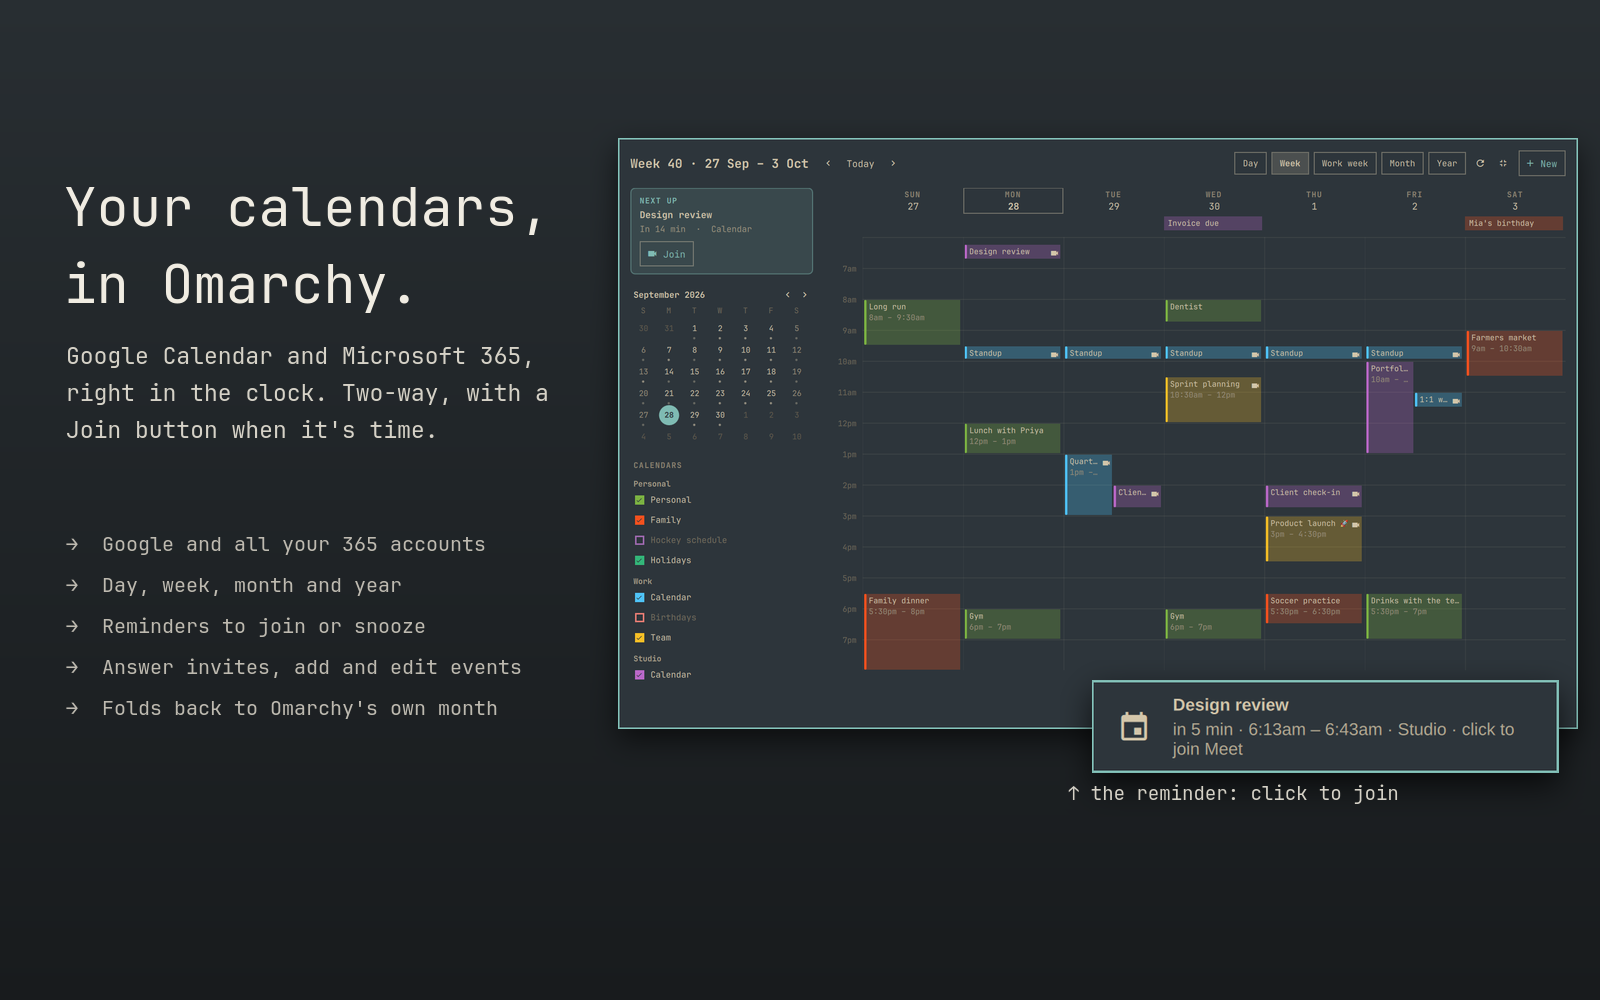
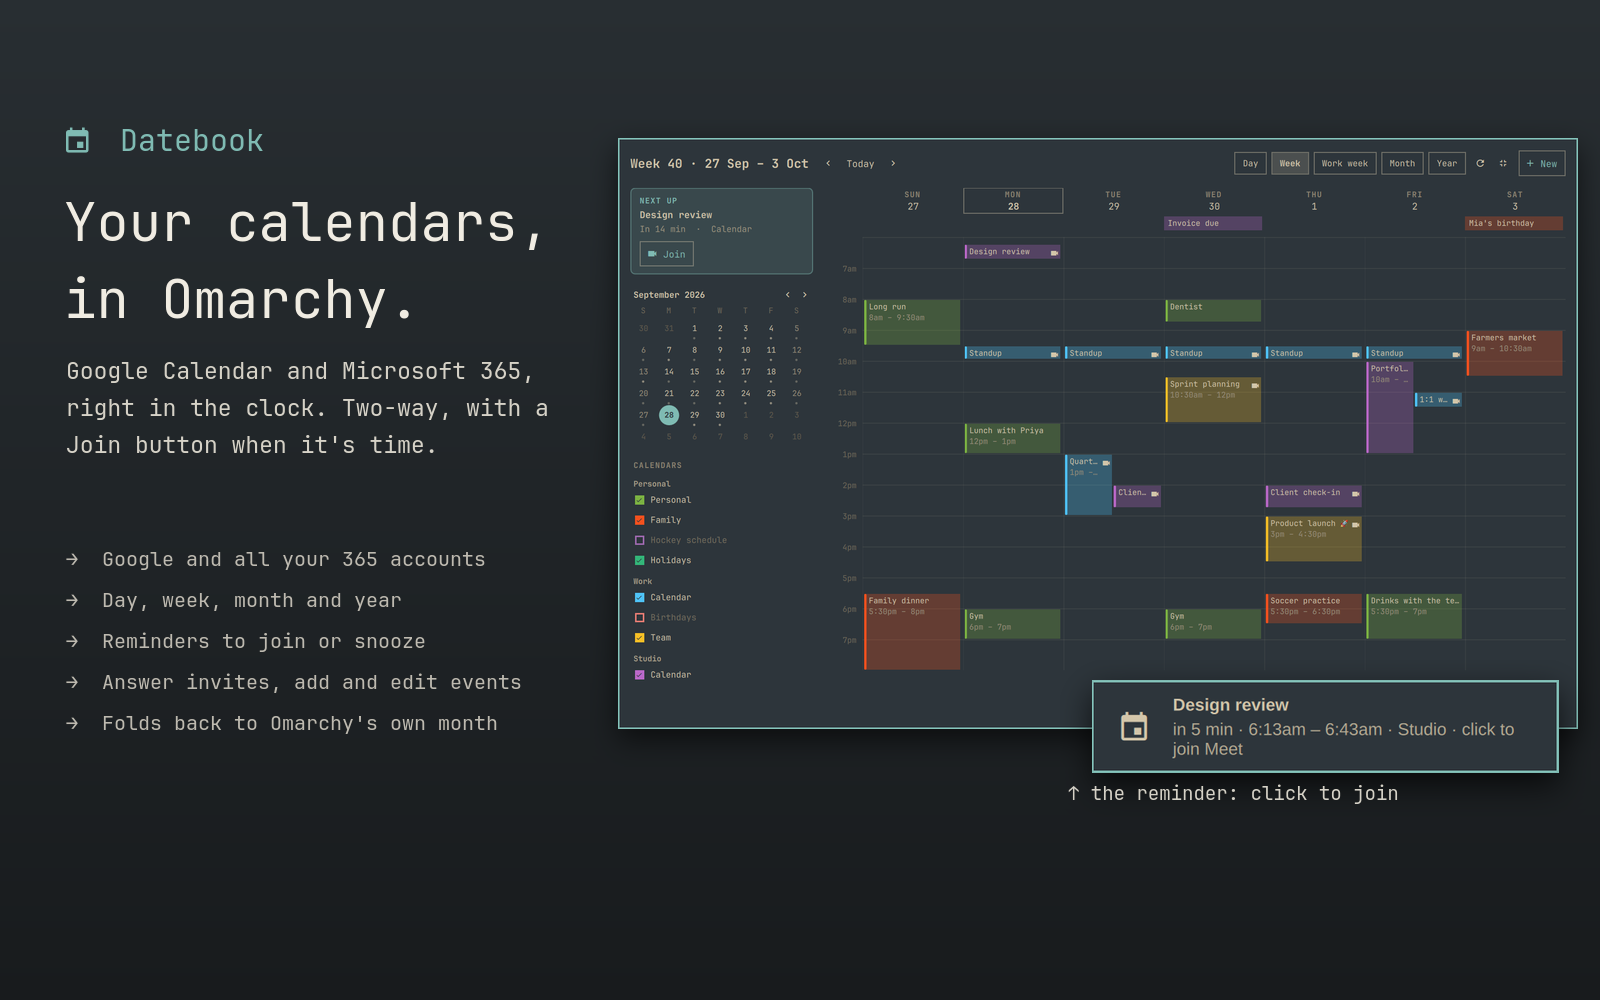
Datebook: the name, and fixes from a review
- The listing name is Datebook (the id stays blacksheep.calendar, so
  existing settings carry over); notifications come from "Datebook".
- .gitignore names client_secret*.json, token, account and cache files,
  so a downloaded Google client file dropped in here can't be committed.
- PRIVACY.md said removing the plugin removes its cache. It doesn't, and
  it leaves the keyring entries too: it now says to run calendar-ctl
  remove for each account first, and which folders are left behind.
- The README's centre-anchor command wrote a fixed /tmp/shell.json; it
  now uses mktemp beside shell.json.
- The preview carries the name.

Changed region(s): [[0.0312, 0.186, 0.3438, 0.465], [0.0625, 0.527, 0.3438, 0.744], [0.0312, 0.124, 0.1562, 0.155]]

diff --git a/Panel.qml b/Panel.qml
@@ -238,7 +238,7 @@ Panel {
         root.editorError = msg
         return
       }
-      failProc.command = ["omarchy-notification-send", "-g", "", "-u", "normal", "--app-name", "Calendar",
+      failProc.command = ["omarchy-notification-send", "-g", "", "-u", "normal", "--app-name", "Datebook",
                           "Calendar: not saved", msg]
       failProc.running = true
     }
@@ -404,7 +404,7 @@ Panel {
     var cal = root.eventIndex.calendars[e.account + "/" + e.calendar] || {}
     var text = Model.reminderText(r, cal.name || e.account, root.use24h)
     var url = e.join ? e.join.url : e.webLink
-    var args = ["notify-send", "--app-name=Calendar", "--urgency=normal",
+    var args = ["notify-send", "--app-name=Datebook", "--urgency=normal",
                 "--hint=string:omarchy-glyph:",
                 "--action=snooze=Snooze " + root.snoozeMinutes + " min"]
     if (/^https:\/\//.test(String(url || "")))

diff --git a/PRIVACY.md b/PRIVACY.md
@@ -1,8 +1,8 @@
-# Privacy policy: Omarchy Calendar
+# Privacy policy: Datebook
 
 *Last updated: 27 September 2026*
 
-Omarchy Calendar is a desktop calendar for the Omarchy Linux desktop. It shows
+Datebook (Omarchy Calendar) is a desktop calendar for the Omarchy Linux desktop. It shows
 your Google Calendar and Microsoft 365 events in the desktop's calendar, sends
 meeting reminders, and lets you create, edit, delete and respond to events.
 It is open source: everything it does is in this repository.
@@ -23,7 +23,7 @@ anything else.
 
 ## Where your data goes
 
-Nowhere but your own computer. Omarchy Calendar has no server, and no one
+Nowhere but your own computer. Datebook has no server, and no one
 operates a service behind it: it runs entirely on your machine and talks
 directly to Google's and Microsoft's calendar APIs.
 
@@ -41,15 +41,19 @@ to anyone, and never used for advertising, analytics or training.
 ## Removing your data
 
 - `calendar-ctl remove <account>` deletes that account's settings and its
-  keyring entry.
-- Uninstalling the plugin removes its cache.
+  keyring entry. Do this for each account **before** removing the plugin:
+  removing the plugin alone leaves the keyring entries in place.
+- Removing the plugin doesn't delete its files outside the plugin folder.
+  The account list in `~/.config/blacksheep.calendar/` and the copy of your
+  events in `~/.cache/blacksheep.calendar/` stay until you delete them; both
+  are safe to delete.
 - You can revoke its access at any time: for Google at
   <https://myaccount.google.com/permissions>, and for Microsoft at
   <https://myaccount.microsoft.com> under *App permissions*.
 
 ## Use of Google user data
 
-Omarchy Calendar's use and transfer of information received from Google APIs
+Datebook's use and transfer of information received from Google APIs
 adheres to the
 [Google API Services User Data Policy](https://developers.google.com/terms/api-services-user-data-policy),
 including the Limited Use requirements.

diff --git a/README.md b/README.md
@@ -1,10 +1,10 @@
-# Calendar — Google Calendar and Microsoft 365 in Omarchy's clock
+# Datebook — Google Calendar and Microsoft 365 in Omarchy's clock
 
 Click the clock and your actual week is there: every Google and Microsoft 365
 calendar you have, in one place, with a Join button when a meeting's about to
 start.
 
-![Calendar: your week, what's next, and a reminder you can join from](preview.png)
+![Datebook: your week, what's next, and a reminder you can join from](preview.png)
 
 ## What you get
 
@@ -69,8 +69,9 @@ If the clock was your bar's centre anchor (Omarchy's default), make the
 calendar the anchor instead, so the centre of the bar stays centred:
 
 ```bash
-jq '.bar.centerAnchor = "blacksheep.calendar"' ~/.config/omarchy/shell.json > /tmp/shell.json \
-  && mv /tmp/shell.json ~/.config/omarchy/shell.json
+t=$(mktemp ~/.config/omarchy/shell.json.XXXXXX) \
+  && jq '.bar.centerAnchor = "blacksheep.calendar"' ~/.config/omarchy/shell.json > "$t" \
+  && mv "$t" ~/.config/omarchy/shell.json
 ```
 
 Then sign in to your accounts (next section). Until you do, it's the clock
